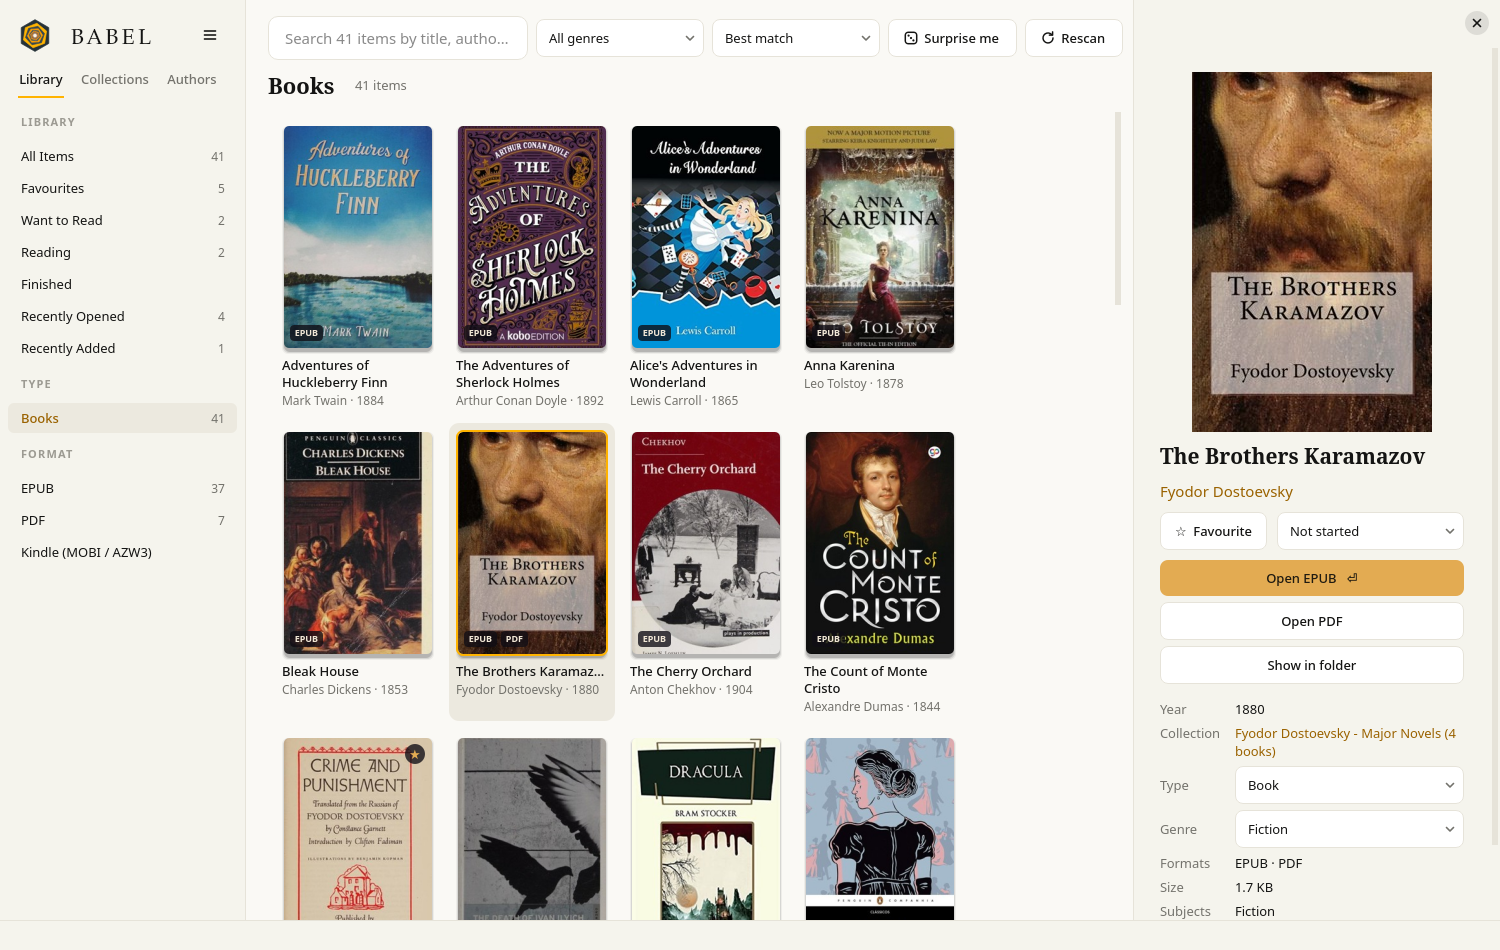
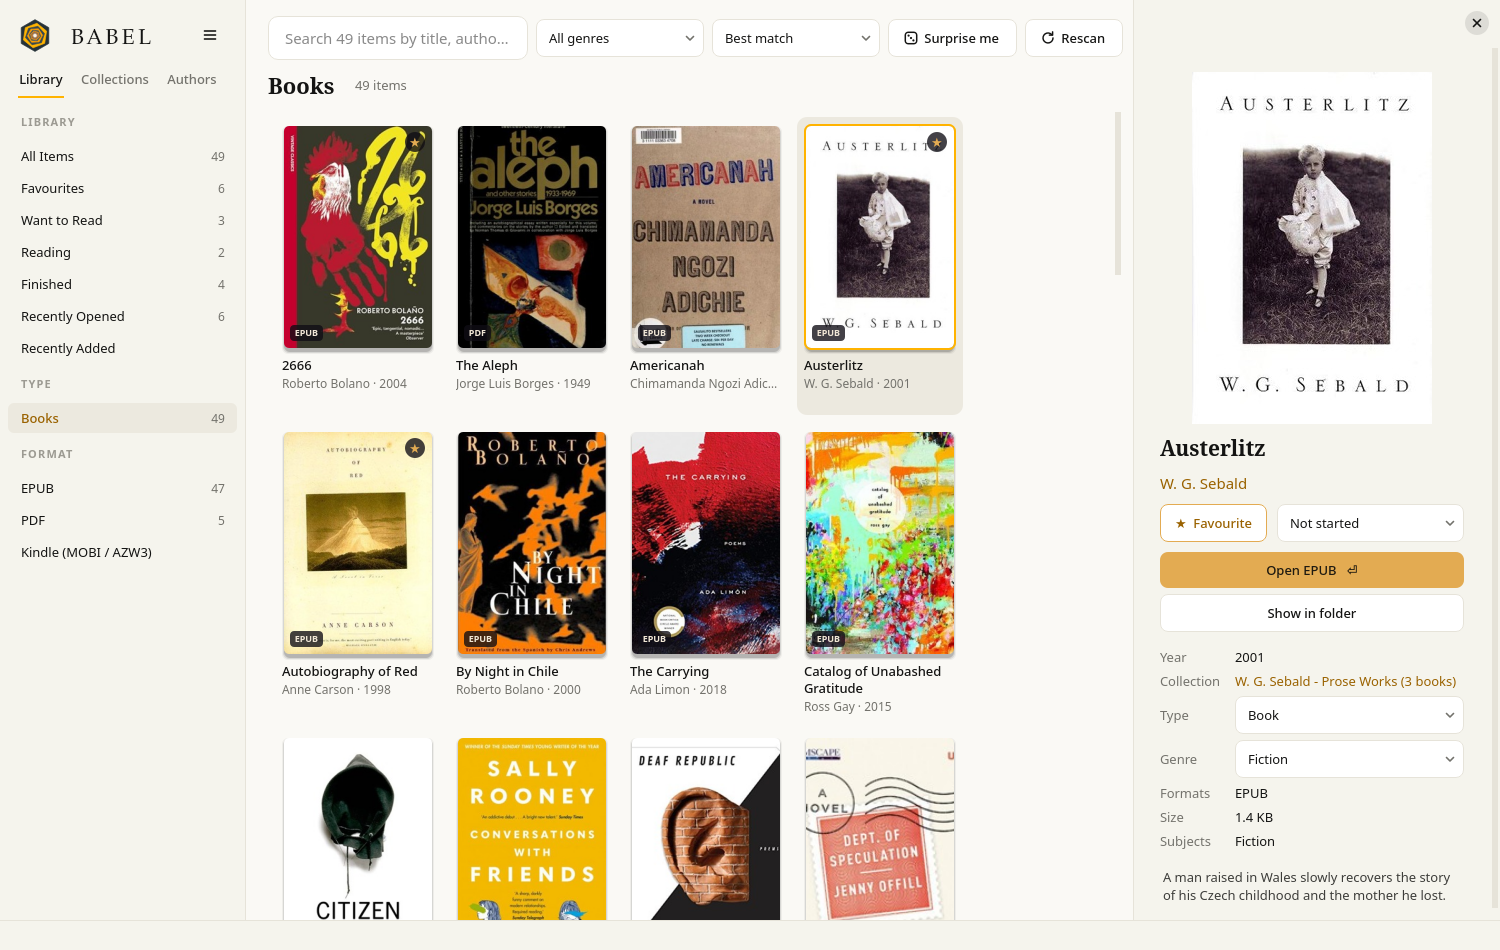
New README screenshots: contemporary fiction and poetry
The demo library now shows recent literary fiction and poetry with
publisher covers from Open Library; credits updated to match.

diff --git a/docs/CREDITS.md b/docs/CREDITS.md
@@ -1,59 +1,61 @@
-# Image credits
+# Screenshot credits
 
-The screenshots show a demo library of public-domain classics (placeholder files, not the books).
+The README screenshots show a demo library: the book files are empty placeholders, and the
+descriptions are short summaries written for the demo.
 
-## Covers from Open Library
+Cover images come from [Open Library](https://openlibrary.org) via its
+[Covers API](https://openlibrary.org/dev/docs/api/covers). The covers remain the copyright
+of their publishers and artists; they are shown only to illustrate how Babel displays a
+library, and will be removed on request.
 
-Via the [Open Library Covers API](https://openlibrary.org/dev/docs/api/covers). Cover designs remain the property of their publishers and artists; they appear here only to illustrate how Babel displays a library.
-
-| Book | Open Library | Cover image |
-|---|---|---|
-| A Tale of Two Cities | [work page](https://openlibrary.org/works/OL8193465W) | [cover 13301713](https://covers.openlibrary.org/b/id/13301713-L.jpg) |
-| Adventures of Huckleberry Finn | [work page](https://openlibrary.org/works/OL53908W) | [cover 15202748](https://covers.openlibrary.org/b/id/15202748-L.jpg) |
-| Alice's Adventures in Wonderland | [work page](https://openlibrary.org/works/OL138052W) | [cover 13886898](https://covers.openlibrary.org/b/id/13886898-L.jpg) |
-| Anna Karenina | [work page](https://openlibrary.org/works/OL20185870W) | [cover 7740257](https://covers.openlibrary.org/b/id/7740257-L.jpg) |
-| Bleak House | [work page](https://openlibrary.org/works/OL14868510W) | [cover 13775077](https://covers.openlibrary.org/b/id/13775077-L.jpg) |
-| Crime and Punishment | [work page](https://openlibrary.org/works/OL45018229W) | [cover 15183762](https://covers.openlibrary.org/b/id/15183762-L.jpg) |
-| Dracula | [work page](https://openlibrary.org/works/OL85892W) | [cover 12216503](https://covers.openlibrary.org/b/id/12216503-L.jpg) |
-| Emma | [work page](https://openlibrary.org/works/OL66513W) | [cover 15171745](https://covers.openlibrary.org/b/id/15171745-L.jpg) |
-| Frankenstein | [work page](https://openlibrary.org/works/OL450063W) | [cover 12356249](https://covers.openlibrary.org/b/id/12356249-L.jpg) |
-| Great Expectations | [work page](https://openlibrary.org/works/OL8721462W) | [cover 13322313](https://covers.openlibrary.org/b/id/13322313-L.jpg) |
-| Hamlet | [work page](https://openlibrary.org/works/OL9170454W) | [cover 8281954](https://covers.openlibrary.org/b/id/8281954-L.jpg) |
-| Jane Eyre | [work page](https://openlibrary.org/works/OL1095427W) | [cover 8235363](https://covers.openlibrary.org/b/id/8235363-L.jpg) |
-| Leaves of Grass | [work page](https://openlibrary.org/works/OL16333W) | [cover 9000447](https://covers.openlibrary.org/b/id/9000447-L.jpg) |
-| Meditations | [work page](https://openlibrary.org/works/OL1317211W) | [cover 211529](https://covers.openlibrary.org/b/id/211529-L.jpg) |
-| Middlemarch | [work page](https://openlibrary.org/works/OL20867W) | [cover 252882](https://covers.openlibrary.org/b/id/252882-L.jpg) |
-| Moby-Dick | [work page](https://openlibrary.org/works/OL102749W) | [cover 10544254](https://covers.openlibrary.org/b/id/10544254-L.jpg) |
-| Mrs Dalloway | [work page](https://openlibrary.org/works/OL39349W) | [cover 6397580](https://covers.openlibrary.org/b/id/6397580-L.jpg) |
-| Notes from Underground | [work page](https://openlibrary.org/works/OL166934W) | [cover 6908257](https://covers.openlibrary.org/b/id/6908257-L.jpg) |
-| Oliver Twist | [work page](https://openlibrary.org/works/OL8193478W) | [cover 13300802](https://covers.openlibrary.org/b/id/13300802-L.jpg) |
-| On the Origin of Species | [work page](https://openlibrary.org/works/OL515051W) | [cover 7153600](https://covers.openlibrary.org/b/id/7153600-L.jpg) |
-| Persuasion | [work page](https://openlibrary.org/works/OL66544W) | [cover 12824691](https://covers.openlibrary.org/b/id/12824691-L.jpg) |
-| Pride and Prejudice | [work page](https://openlibrary.org/works/OL66554W) | [cover 14348537](https://covers.openlibrary.org/b/id/14348537-L.jpg) |
-| Sense and Sensibility | [work page](https://openlibrary.org/works/OL66562W) | [cover 9278292](https://covers.openlibrary.org/b/id/9278292-L.jpg) |
-| The Adventures of Sherlock Holmes | [work page](https://openlibrary.org/works/OL262421W) | [cover 14622714](https://covers.openlibrary.org/b/id/14622714-L.jpg) |
-| The Brothers Karamazov | [work page](https://openlibrary.org/works/OL24600223W) | [cover 11263774](https://covers.openlibrary.org/b/id/11263774-L.jpg) |
-| The Cherry Orchard | [work page](https://openlibrary.org/works/OL13052106W) | [cover 12670128](https://covers.openlibrary.org/b/id/12670128-L.jpg) |
-| The Count of Monte Cristo | [work page](https://openlibrary.org/works/OL20098701W) | [cover 15215974](https://covers.openlibrary.org/b/id/15215974-L.jpg) |
-| The Death of Ivan Ilyich | [work page](https://openlibrary.org/works/OL16563010W) | [cover 11616112](https://covers.openlibrary.org/b/id/11616112-L.jpg) |
-| The Idiot | [work page](https://openlibrary.org/works/OL20906897W) | [cover 10249475](https://covers.openlibrary.org/b/id/10249475-L.jpg) |
-| The Metamorphosis | [work page](https://openlibrary.org/works/OL15176533W) | [cover 6889547](https://covers.openlibrary.org/b/id/6889547-L.jpg) |
-| The Odyssey | [work page](https://openlibrary.org/works/OL26446888W) | [cover 12474938](https://covers.openlibrary.org/b/id/12474938-L.jpg) |
-| The Picture of Dorian Gray | [work page](https://openlibrary.org/works/OL8193416W) | [cover 14314858](https://covers.openlibrary.org/b/id/14314858-L.jpg) |
-| The Republic | [work page](https://openlibrary.org/works/OL380265W) | [cover 14377522](https://covers.openlibrary.org/b/id/14377522-L.jpg) |
-| The Tenant of Wildfell Hall | [work page](https://openlibrary.org/works/OL260101W) | [cover 1023552](https://covers.openlibrary.org/b/id/1023552-L.jpg) |
-| The Trial | [work page](https://openlibrary.org/works/OL43043884W) | [cover 14910748](https://covers.openlibrary.org/b/id/14910748-L.jpg) |
-| Ulysses | [work page](https://openlibrary.org/works/OL86318W) | [cover 13136548](https://covers.openlibrary.org/b/id/13136548-L.jpg) |
-| War and Peace | [work page](https://openlibrary.org/works/OL267171W) | [cover 12621906](https://covers.openlibrary.org/b/id/12621906-L.jpg) |
-| Wuthering Heights | [work page](https://openlibrary.org/works/OL21177W) | [cover 12818862](https://covers.openlibrary.org/b/id/12818862-L.jpg) |
-
-## Public-domain scans from Wikimedia Commons
-
-| Book | Image | Licence |
-|---|---|---|
-| Poems, First Series | [Poems by Emily Dickinson, Cover.png](https://commons.wikimedia.org/wiki/File:Poems_by_Emily_Dickinson,_Cover.png) | Public domain |
-| Poems, Second Series | [Emily Dickinson Poems - Second Series.jpg](https://commons.wikimedia.org/wiki/File:Emily_Dickinson_Poems_-_Second_Series.jpg) | Public domain |
-
-One book (*Symposium*) uses a cover drawn for the demo.
-
-The Babel icon and interface are part of this project (GPL-3.0-or-later).
+| Book | Source |
+|---|---|
+| 2666 | [Open Library](https://openlibrary.org/works/OL712025W) |
+| A Little Life | [Open Library](https://openlibrary.org/works/OL17370186W) |
+| The Aleph | [Open Library](https://openlibrary.org/works/OL104850W) |
+| Americanah | [Open Library](https://openlibrary.org/works/OL16805415W) |
+| Austerlitz | [Open Library](https://openlibrary.org/works/OL46615W) |
+| Autobiography of Red | [Open Library](https://openlibrary.org/works/OL1998433W) |
+| By Night in Chile | [Open Library](https://openlibrary.org/isbn/9780811215473) |
+| The Carrying | [Open Library](https://openlibrary.org/works/OL19753393W) |
+| Catalog of Unabashed Gratitude | [Open Library](https://openlibrary.org/works/OL17627413W) |
+| Citizen | [Open Library](https://openlibrary.org/works/OL17062866W) |
+| Conversations with Friends | [Open Library](https://openlibrary.org/works/OL17887575W) |
+| Deaf Republic | [Open Library](https://openlibrary.org/works/OL20152493W) |
+| Dept. of Speculation | [Open Library](https://openlibrary.org/works/OL24393895W) |
+| Devotions | [Open Library](https://openlibrary.org/works/OL19720501W) |
+| The Emigrants | [Open Library](https://openlibrary.org/isbn/9780811213660) |
+| Faithful and Virtuous Night | [Open Library](https://openlibrary.org/works/OL19670656W) |
+| Ficciones | [Open Library](https://openlibrary.org/works/OL110971W) |
+| Flights | [Open Library](https://openlibrary.org/works/OL2097670W) |
+| Foster | [Open Library](https://openlibrary.org/works/OL19956847W) |
+| Gilead | [Open Library](https://openlibrary.org/works/OL1875009W) |
+| Girl, Woman, Other | [Open Library](https://openlibrary.org/works/OL20470196W) |
+| Glass, Irony and God | [Open Library](https://openlibrary.org/works/OL1998431W) |
+| The God of Small Things | [Open Library](https://openlibrary.org/works/OL1052133W) |
+| The Goldfinch | [Open Library](https://openlibrary.org/works/OL16809803W) |
+| Hamnet | [Open Library](https://openlibrary.org/works/OL20743965W) |
+| Homegoing | [Open Library](https://openlibrary.org/works/OL17795349W) |
+| Human Acts | [Open Library](https://openlibrary.org/isbn/9781101906729) |
+| Klara and the Sun | [Open Library](https://openlibrary.org/works/OL20883297W) |
+| Labyrinths | [Open Library](https://openlibrary.org/works/OL110959W) |
+| Life on Mars | [Open Library](https://openlibrary.org/works/OL20966063W) |
+| Lincoln in the Bardo | [Open Library](https://openlibrary.org/works/OL17635834W) |
+| My Brilliant Friend | [Open Library](https://openlibrary.org/works/OL34947113W) |
+| Never Let Me Go | [Open Library](https://openlibrary.org/works/OL59038W) |
+| Normal People | [Open Library](https://openlibrary.org/works/OL20150260W) |
+| Outline | [Open Library](https://openlibrary.org/works/OL17873642W) |
+| Postcolonial Love Poem | [Open Library](https://openlibrary.org/works/OL20818319W) |
+| The Rings of Saturn | [Open Library](https://openlibrary.org/isbn/9780811214131) |
+| The Road | [Open Library](https://openlibrary.org/works/OL40873W) |
+| The Savage Detectives | [Open Library](https://openlibrary.org/isbn/9780312427481) |
+| Small Things Like These | [Open Library](https://openlibrary.org/works/OL23020966W) |
+| There There | [Open Library](https://openlibrary.org/works/OL18143930W) |
+| The Tradition | [Open Library](https://openlibrary.org/works/OL20152425W) |
+| The Underground Railroad | [Open Library](https://openlibrary.org/works/OL17619932W) |
+| The Vegetarian | [Open Library](https://openlibrary.org/works/OL17334243W) |
+| The Voice at 3:00 A.M. | [Open Library](https://openlibrary.org/works/OL30512W) |
+| When We Cease to Understand the World | [Open Library](https://openlibrary.org/works/OL28769111W) |
+| The White Book | [Open Library](https://openlibrary.org/works/OL20034706W) |
+| White Teeth | [Open Library](https://openlibrary.org/works/OL481143W) |
+| The World Doesn't End | [Open Library](https://openlibrary.org/works/OL30507W) |

diff --git a/README.md b/README.md
@@ -18,9 +18,8 @@ Named after Jorge Luis Borges' story *The Library of Babel*.
 <p align="center"><img src="docs/preferences.png" width="640" alt="Babel's Preferences window"></p>
 </details>
 
-<sub>Screenshots show a demo library of public-domain classics, with covers from
-Open Library and Wikimedia Commons ([credits](docs/CREDITS.md)).
-With your own books, Babel shows each book's own cover.</sub>
+<sub>Screenshots show a demo library of contemporary fiction and poetry, with covers from
+Open Library ([credits](docs/CREDITS.md)). With your own books, Babel shows each book's own cover.</sub>
 
 ## Features
 
